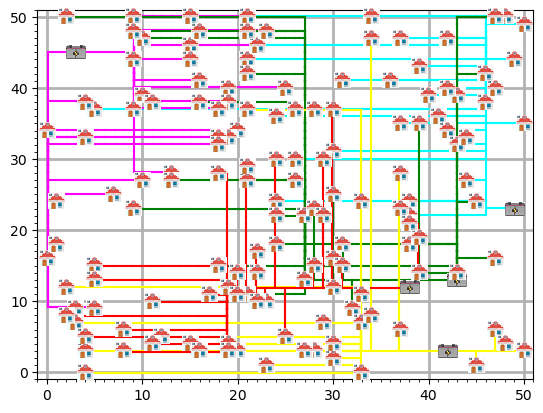
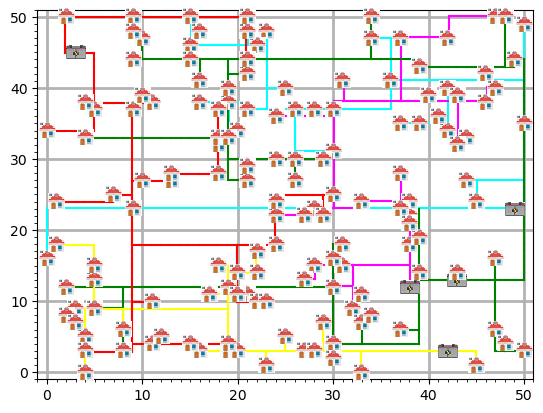
Alle aansluitingen van huizen naar dichtsbijzijndste kabel worden nu ook in batterij bijgehouden

diff --git a/models/Huis.py b/models/Huis.py
@@ -46,7 +46,11 @@ class Huis:
     #     return distance_x + distance_y
 
     # Todo: Maak functie die een huis aan een kabel aansluit
-    def lay_cable(self, kabel):
+    # Todo: Pas functie aan, zodat deze kabel ook in de set van batterij komt om te tekenen!
+
+    # Misschien toch een set in huizen zetten voor kabels,
+    # zodat je de batterij niet hoeft mee te geven, en niet eens deze list hoeft bij te houden!
+    def lay_cable_to_cable(self, kabel, batterij):
         distance_y = int(self.__locatie[1]) - int(kabel[1])
         distance_x = int(self.__locatie[0]) - int(kabel[0])
         kabel_y = int(kabel[1])
@@ -57,24 +61,23 @@ class Huis:
 
             for movement in range(abs(distance_y)):
                 self.set_kabels((kabel_x, kabel_y + movement))
+                batterij.set_unieke_kabel((kabel_x, kabel_y + movement))
         else:
 
             for movement in range(abs(distance_y)):
                 self.set_kabels((kabel_x, kabel_y - movement))
+                batterij.set_unieke_kabel((kabel_x, kabel_y - movement))
 
         if distance_x > 0:
 
             for movement in range(abs(distance_x) + 1):
                 self.set_kabels((kabel_x + movement, huis_y))
+                batterij.set_unieke_kabel((kabel_x + movement, huis_y))
         else:
 
             for movement in range(abs(distance_x) + 1):
                 self.set_kabels((kabel_x - movement, huis_y))
-
-
-
-
-
+                batterij.set_unieke_kabel((kabel_x - movement, huis_y))
 
     # toString()
     def __str__(self):

diff --git a/algorithms/randomize.py b/algorithms/randomize.py
@@ -20,7 +20,7 @@ def rand_algorithm(grid):
     while grid.is_everything_connected() is False:
         huis = choice(huizen)
         batterij = choice(batterijen)
-        batterij.lay_cable(huis)
+        batterij.lay_cable_to_house(huis)
 
 def rand_one_to_one_algorithm(grid):
     """
@@ -33,4 +33,4 @@ def rand_one_to_one_algorithm(grid):
 
     for huis in huizen:
         batterij = choice(batterijen)
-        batterij.lay_cable(huis)
+        batterij.lay_cable_to_house(huis)

diff --git a/models/Batterij.py b/models/Batterij.py
@@ -56,7 +56,7 @@ class Batterij:
     def unieke_total_price(self):
         return ((len(self.get_unieke_kabels()) - 1) * Batterij.prijs_kabel) + Batterij.batterij_prijs
 
-    def lay_cable(self, huis):
+    def lay_cable_to_house(self, huis):
         distance_y = int(self.__locatie[1]) - int(huis.get_locatie()[1])
         distance_x = int(self.__locatie[0]) - int(huis.get_locatie()[0])
         huis_y = int(huis.get_locatie()[1])

diff --git a/algorithms/randomize_cable_dist_cap.py b/algorithms/randomize_cable_dist_cap.py
@@ -61,8 +61,8 @@ def rand_cable_dist_cap(grid):
             batterij_kabel.set_huis(huis)
 
             # Leg kabel vanuit huis naar deze dichtsbijzijndste kabel
-            huis.lay_cable(beste_kabel)
+            huis.lay_cable_to_cable(beste_kabel, batterij_kabel)
 
         # Anders sluit aan de dichtsbijzijnste batterij
         else:
-            batterij.lay_cable(huis)
+            batterij.lay_cable_to_house(huis)

diff --git a/visualisation/plot_grid.py b/visualisation/plot_grid.py
@@ -14,6 +14,7 @@ root_path = os.path.dirname(os.getcwd())
 sys.path.append(root_path)
 
 # Functie: tekent grid
+# Todo: teken de lijnen die in de batterijen ligt, want dat zijn de unieke kabels
 def draw(grid):
     # https://stackoverflow.com/questions/24943991/change-grid-interval-and-specify-tick-labels-in-matplotlib
 

diff --git a/algorithms/randomize_dist_cap.py b/algorithms/randomize_dist_cap.py
@@ -36,4 +36,4 @@ def dist_cap_algorithm(grid):
 
     for huis in huizen:
         batterij = find_battery(batterijen, huis)
-        batterij.lay_cable(huis)
+        batterij.lay_cable_to_house(huis)
